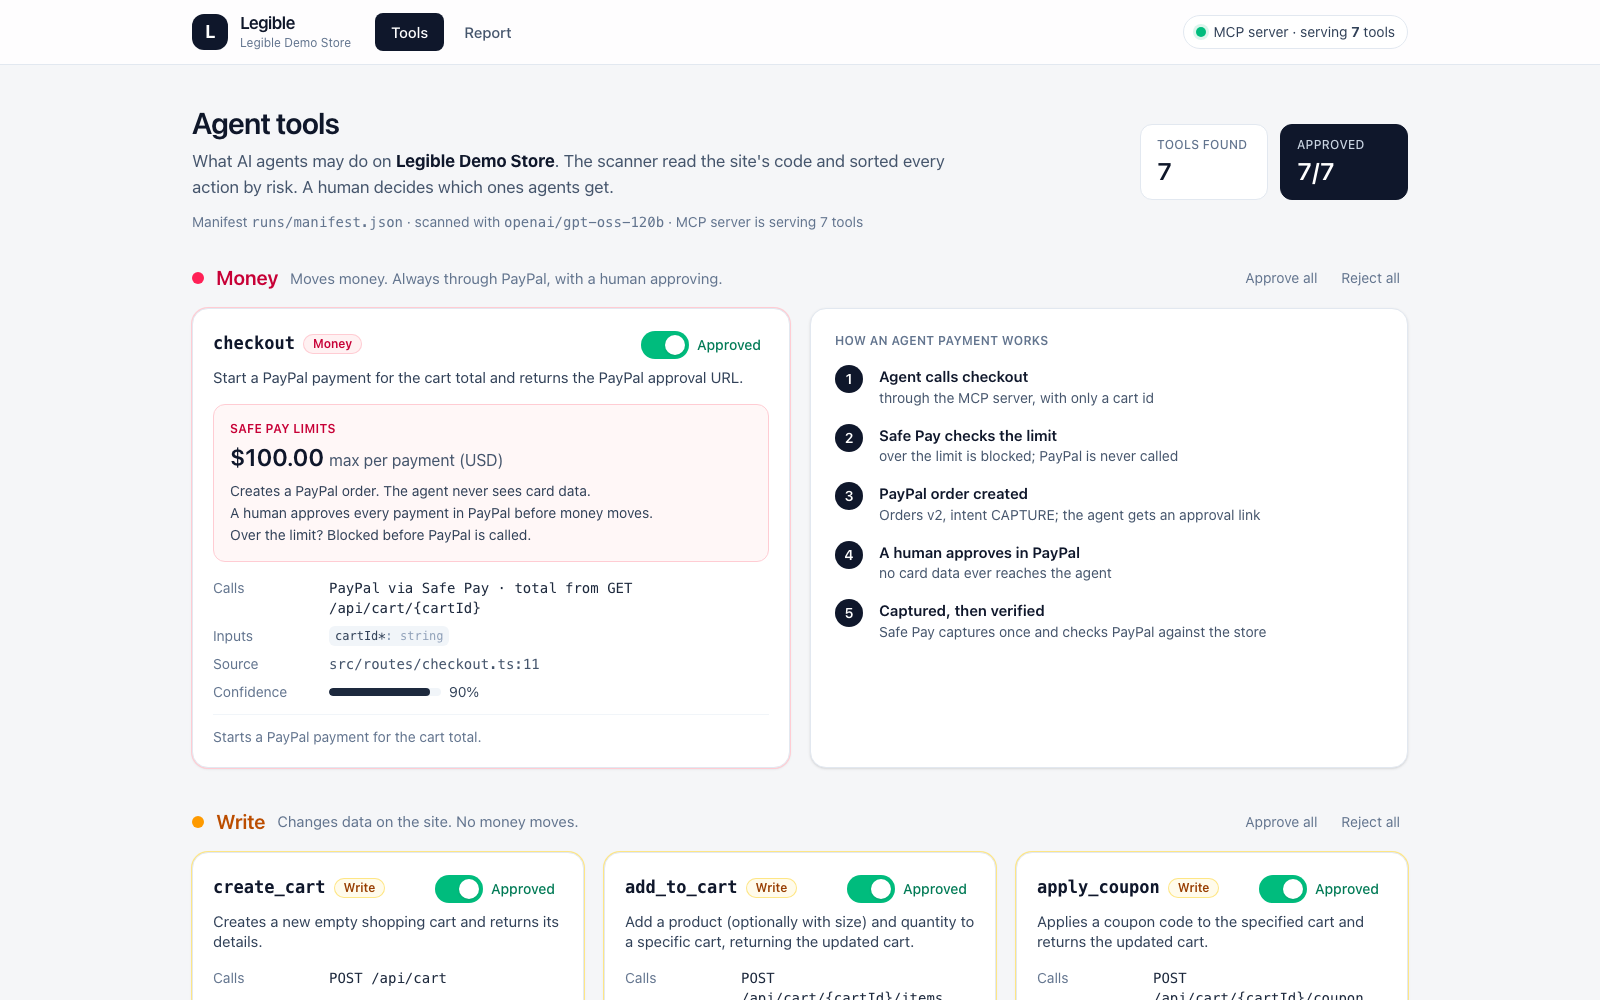
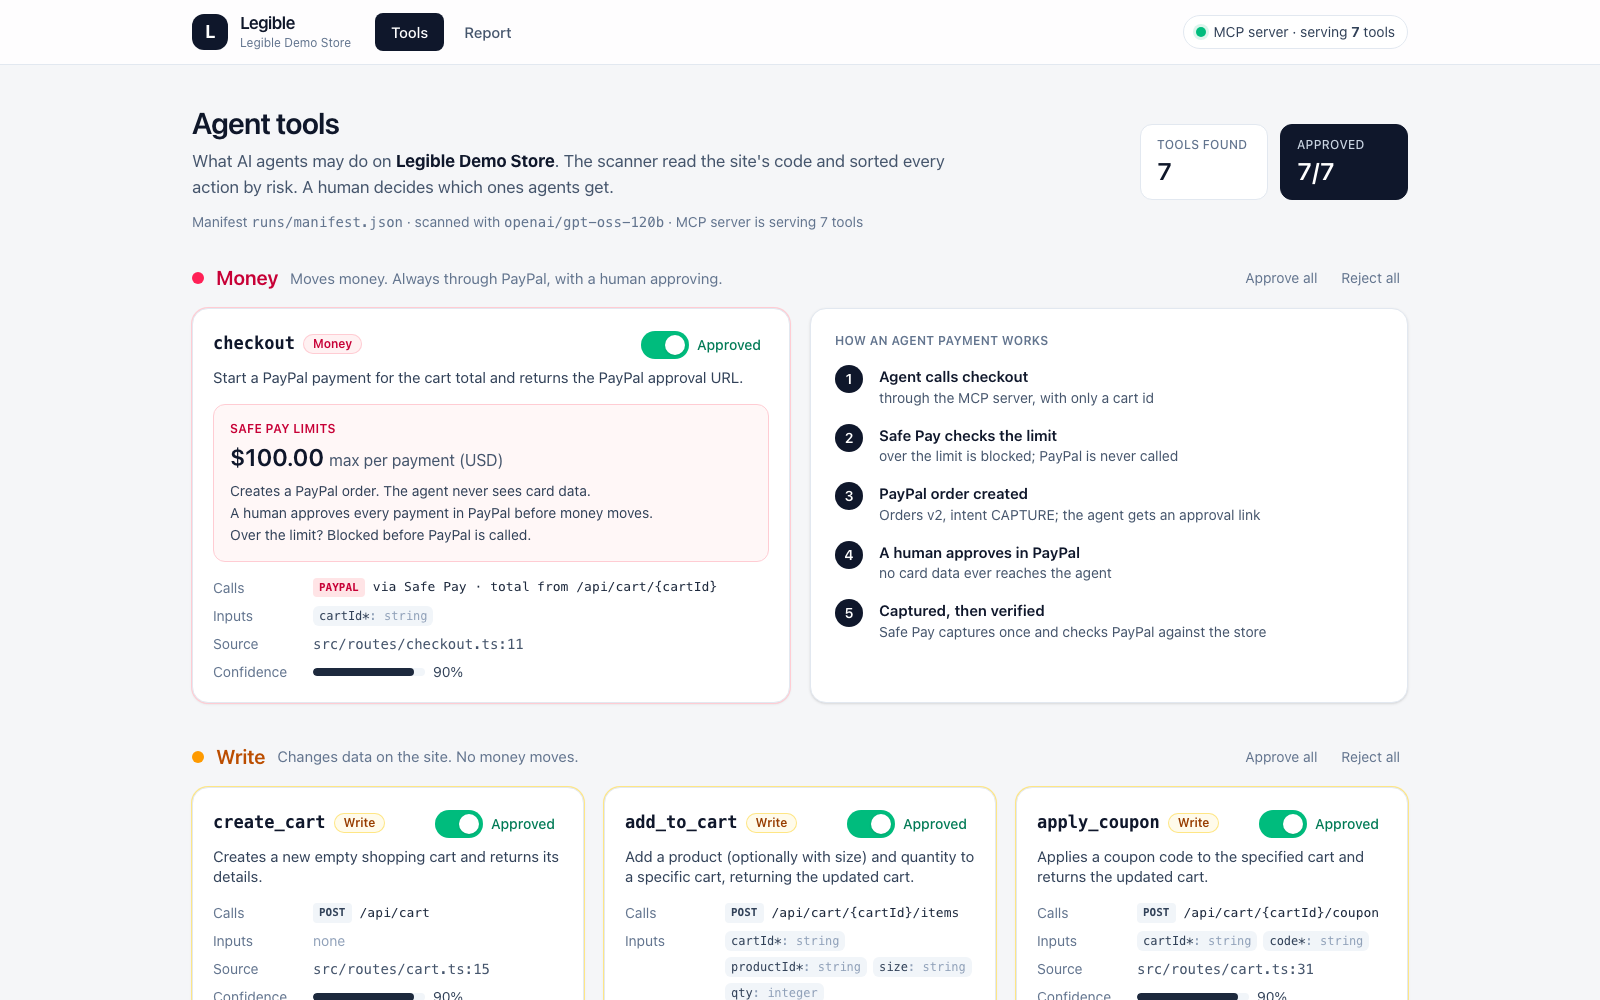
docs(dashboard): scope claims to Express/TypeScript, add What's next; dedupe risk reason and one-line Calls on tool cards

diff --git a/apps/dashboard/components/ToolsBoard.tsx b/apps/dashboard/components/ToolsBoard.tsx
@@ -3,7 +3,7 @@ import { useMemo, useState } from "react";
 import { useRouter } from "next/navigation";
 import type { Manifest, Risk, Tool } from "@legible/contracts";
 import type { HiddenRoute } from "@/lib/data";
-import { RISK, money } from "@/lib/format";
+import { RISK, money, repeats } from "@/lib/format";
 import { Banner, Pill } from "@/components/ui";
 
 type View = { manifest: Manifest; displayPath: string; source: "scan" | "fixture"; readOnly: boolean; readOnlyReason: string | null; hidden: HiddenRoute[]; model: string | null };
@@ -107,6 +107,7 @@ function ToolCard({ tool, approved, disabled, onToggle }: { tool: Tool; approved
   const r = RISK[tool.risk];
   const conf = tool.confidence;
   const review = (conf !== undefined && conf < 0.8) || tool.riskReason?.startsWith("Review");
+  const callsTitle = tool.binding.kind === "http" ? `${tool.binding.method} ${tool.binding.path}` : `PayPal via Safe Pay · total from GET ${tool.binding.cartPath}`;
   const props = Object.entries((tool.inputSchema as { properties?: Record<string, { type?: string }> }).properties ?? {});
   const required = new Set(((tool.inputSchema as { required?: string[] }).required ?? []) as string[]);
   return (
@@ -135,9 +136,14 @@ function ToolCard({ tool, approved, disabled, onToggle }: { tool: Tool; approved
         </div>
       )}
 
-      <dl className="mt-4 grid grid-cols-[6.5rem_1fr] gap-x-3 gap-y-2 text-sm">
+      <dl className="mt-4 grid grid-cols-[5.5rem_minmax(0,1fr)] gap-x-3 gap-y-2 text-sm">
         <dt className="text-slate-500">Calls</dt>
-        <dd className="font-mono text-slate-800">{tool.binding.kind === "http" ? `${tool.binding.method} ${tool.binding.path}` : `PayPal via Safe Pay · total from GET ${tool.binding.cartPath}`}</dd>
+        <dd className="flex min-w-0 items-center gap-2" title={callsTitle}>
+          <span className={`shrink-0 rounded px-1.5 py-0.5 font-mono text-[11px] font-semibold ${tool.binding.kind === "http" ? "bg-slate-100 text-slate-700" : "bg-rose-100 text-rose-700"}`}>
+            {tool.binding.kind === "http" ? tool.binding.method : "PAYPAL"}
+          </span>
+          <span className="truncate font-mono text-[13px] text-slate-800">{tool.binding.kind === "http" ? tool.binding.path : `via Safe Pay · total from ${tool.binding.cartPath}`}</span>
+        </dd>
         <dt className="text-slate-500">Inputs</dt>
         <dd className="flex flex-wrap gap-1.5">
           {props.length ? props.map(([k, v]) => (
@@ -166,7 +172,9 @@ function ToolCard({ tool, approved, disabled, onToggle }: { tool: Tool; approved
           </>
         )}
       </dl>
-      {tool.riskReason && <p className={`mt-3 border-t border-slate-100 pt-3 text-sm ${review ? "text-amber-800" : "text-slate-500"}`}>{tool.riskReason}</p>}
+      {tool.riskReason && (review || !repeats(tool.riskReason, tool.description)) && (
+        <p className={`mt-3 border-t border-slate-100 pt-3 text-sm ${review ? "text-amber-800" : "text-slate-500"}`}>{tool.riskReason}</p>
+      )}
     </article>
   );
 }

diff --git a/apps/dashboard/lib/format.ts b/apps/dashboard/lib/format.ts
@@ -24,3 +24,12 @@ export const FAILURE: Record<string, { label: string; cls: string }> = {
 };
 
 export const scoreColor = (s: number) => (s >= 80 ? { text: "text-emerald-600", stroke: "#059669", soft: "bg-emerald-50" } : s >= 50 ? { text: "text-amber-600", stroke: "#d97706", soft: "bg-amber-50" } : { text: "text-rose-600", stroke: "#e11d48", soft: "bg-rose-50" });
+
+/** True when `reason` mostly repeats `description` (the scanner sometimes restates it); then the card shows it once. */
+export function repeats(reason: string, description: string): boolean {
+  const words = (t: string) => t.toLowerCase().match(/[a-z0-9]+/g) ?? [];
+  const r = words(reason).filter((w) => w.length > 2);
+  if (!r.length) return true;
+  const d = new Set(words(description));
+  return r.filter((w) => d.has(w)).length / r.length >= 0.75;
+}

diff --git a/apps/dashboard/test/dashboard.test.ts b/apps/dashboard/test/dashboard.test.ts
@@ -137,3 +137,12 @@ describe("route handlers", () => {
     expect((await bad.json()).error).toMatch(/site|tools/);
   });
 });
+
+describe("card copy", () => {
+  it("repeats(): hides a risk reason that restates the description, keeps one that adds information", async () => {
+    const { repeats } = await import("../lib/format");
+    expect(repeats("Starts a PayPal payment for the cart total.", "Start a PayPal payment for the cart total and returns the PayPal approval URL.")).toBe(true);
+    expect(repeats("Creates a new cart, changing system state but not involving money.", "Creates a new empty shopping cart and returns its details.")).toBe(false);
+    expect(repeats("", "anything")).toBe(true);
+  });
+});

diff --git a/apps/dashboard/app/layout.tsx b/apps/dashboard/app/layout.tsx
@@ -3,7 +3,7 @@ import "./globals.css";
 import { Nav } from "@/components/Nav";
 import { getConfig, loadManifestView, publisherStatus } from "@/lib/data";
 
-export const metadata: Metadata = { title: "Legible", description: "Make any website safely usable by AI agents, and prove it." };
+export const metadata: Metadata = { title: "Legible", description: "Make any web app agent-ready — starting with Express/TypeScript." };
 export const dynamic = "force-dynamic";
 
 export default async function RootLayout({ children }: { children: React.ReactNode }) {

diff --git a/README.md b/README.md
@@ -1,6 +1,6 @@
 # Legible
 
-**Make any website safely usable by AI agents, and prove it.**
+**Make any web app agent-ready — starting with Express/TypeScript.**
 
 AI agents are starting to shop, book and pay on the web, but websites were built for humans. An agent clicking
 through HTML is fragile, and an agent with a payment API is dangerous. Legible reads a site's code, decides which
@@ -10,7 +10,7 @@ actions an agent may take and how risky each one is, publishes them as an MCP se
 Built for the PayPal AI Hackathon 2026. MIT licensed.
 
 ## How it works
-1. **Scan**: reads the site's source and writes an agent manifest: tools with risk tiers `read` / `write` / `money`.
+1. **Scan**: reads the site's source (Express + TypeScript today) and writes an agent manifest: tools with risk tiers `read` / `write` / `money`.
 2. **Approve**: a human approves which tools agents get in the **dashboard** (tools start unapproved).
 3. **Publish**: approved tools are served as an MCP server (Streamable HTTP). Every call is logged per run.
 4. **Safe Pay**: money tools never touch card data. They create a **PayPal Sandbox order**; a human approves it in
@@ -132,6 +132,10 @@ flagged with confidence 0.57. The benchmark is small (one site, 11 routes).
 
 Money scenarios count double in the score. Verify runs before approval and again after PayPal, because the
 paid-early bug is invisible once the capture completes.
+
+## What's next
+- More frameworks (Next.js, FastAPI, Rails). The scanner reads Express/TypeScript today, and its eval covers one site (11 routes).
+- A second demo site to widen the scanner benchmark.
 
 ## Team
 Rules for every coding agent: `AGENTS.md`. Briefs: `docs/briefs/`. Progress log: `docs/progress.md`. Video script: `docs/demo-script.md`.

diff --git a/docs/demo-script.md b/docs/demo-script.md
@@ -58,7 +58,7 @@ one payment blocked by the limit. A hundred out of a hundred. That score is what
 
 ### 2:35–2:45 · Close
 **Screen:** README architecture diagram.
-**Say:** "Legible: scan, approve, publish, pay safely with PayPal, and crash-test it. Any site, any agent."
+**Say:** "Legible: scan, approve, publish, pay safely with PayPal, and crash-test it. Make any web app agent-ready, starting with Express and TypeScript."
 
 ---
 
